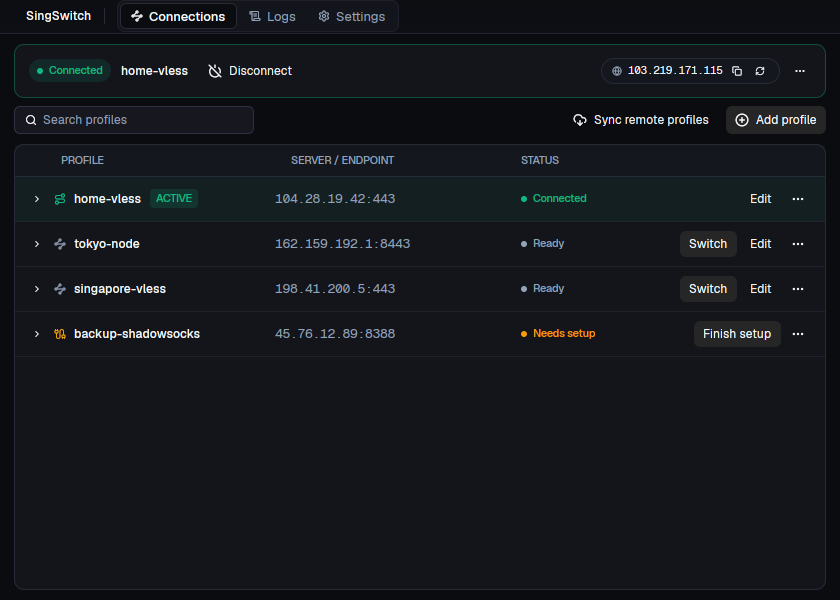
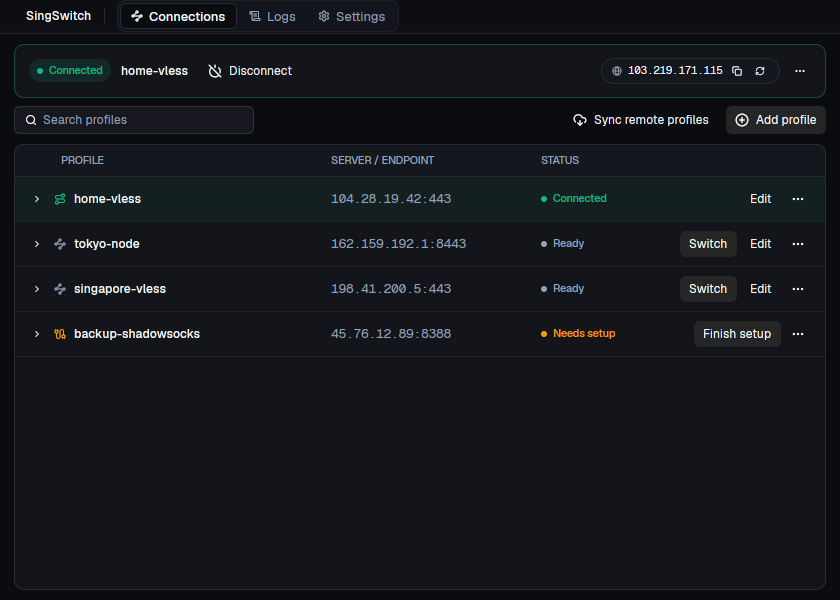
style(profiles): remove redundant active badge and rebalance column widths
- Remove redundant ACTIVE badge beside profile name in favor of row background and status column
- Allocate flexible width to Profile column and fixed 200px to Server/Endpoint to prevent premature truncation

diff --git a/crates/singswitch-app/src/views/profiles.rs b/crates/singswitch-app/src/views/profiles.rs
@@ -653,10 +653,10 @@ impl ProfilesView {
                             .text_xs()
                             .font_weight(fonts::EMPHASIS)
                             .text_color(cx.theme().muted_foreground)
-                            .child(div().flex_1().min_w(px(180.0)).pl(px(32.0)).child("PROFILE"))
-                            .child(div().flex_1().min_w(px(180.0)).child("SERVER / ENDPOINT"))
-                            .child(div().w(px(100.0)).flex_none().child("STATUS"))
-                            .child(div().w(px(180.0)).flex_none()),
+                            .child(div().flex_1().min_w(px(220.0)).pl(px(32.0)).child("PROFILE"))
+                            .child(div().w(px(200.0)).flex_none().child("SERVER / ENDPOINT"))
+                            .child(div().w(px(110.0)).flex_none().child("STATUS"))
+                            .child(div().w(px(150.0)).flex_none()),
                     )
                     .child(
                         v_flex()
@@ -728,7 +728,7 @@ impl ProfilesView {
                     .child(
                         h_flex()
                             .flex_1()
-                            .min_w(px(180.0))
+                            .min_w(px(220.0))
                             .items_center()
                             .gap(px(8.0))
                             .child(
@@ -776,25 +776,12 @@ impl ProfilesView {
                                     .text_color(cx.theme().foreground)
                                     .truncate()
                                     .child(profile.name.clone()),
-                            )
-                            .when(live, |row| {
-                                row.child(
-                                    div()
-                                        .px(px(6.0))
-                                        .py(px(1.0))
-                                        .rounded(px(4.0))
-                                        .bg(cx.theme().success.opacity(0.15))
-                                        .text_size(px(10.5))
-                                        .font_weight(fonts::EMPHASIS)
-                                        .text_color(cx.theme().success)
-                                        .child("ACTIVE"),
-                                )
-                            }),
+                            ),
                     )
                     .child(
                         div()
-                            .flex_1()
-                            .min_w(px(180.0))
+                            .w(px(200.0))
+                            .flex_none()
                             .font_family(fonts::mono_family())
                             .text_size(px(12.5))
                             .text_color(cx.theme().muted_foreground)
@@ -803,7 +790,7 @@ impl ProfilesView {
                     )
                     .child(
                         h_flex()
-                            .w(px(100.0))
+                            .w(px(110.0))
                             .flex_none()
                             .items_center()
                             .gap(px(6.0))
@@ -818,7 +805,7 @@ impl ProfilesView {
                     )
                     .child(
                         h_flex()
-                            .w(px(180.0))
+                            .w(px(150.0))
                             .flex_none()
                             .justify_end()
                             .gap(px(4.0))
